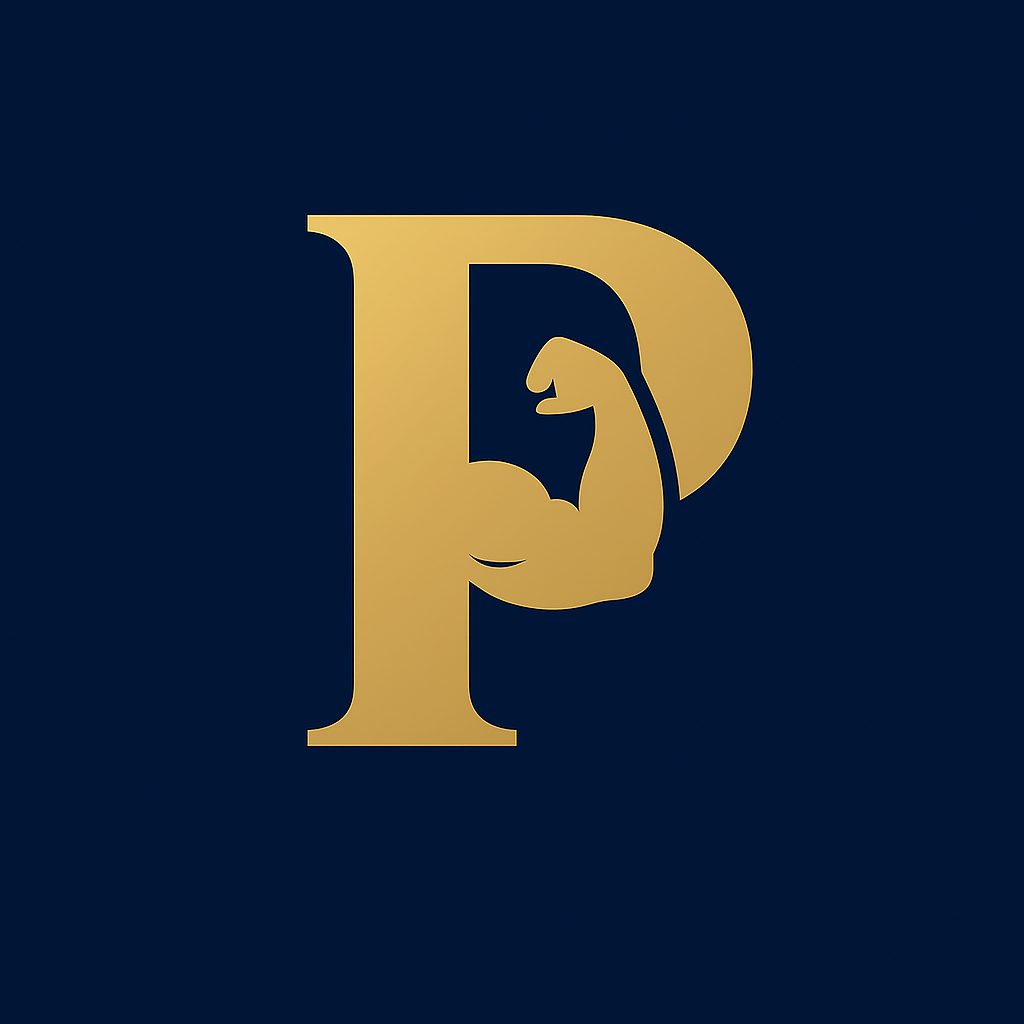
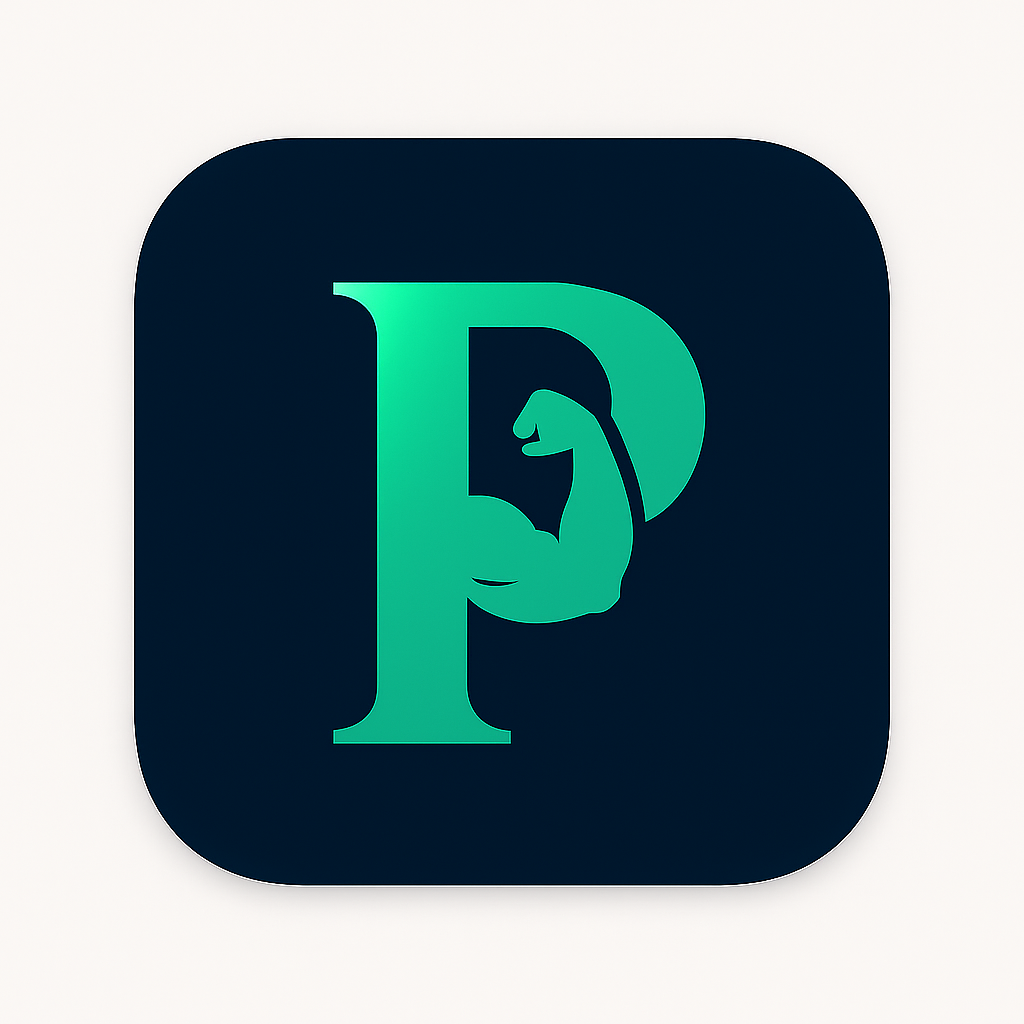
Update color theme and branding
- Updated color scheme to dark navy with green accents
- Replaced gold colors with primary green (#00C97C)
- Updated background colors to match new theme
- Removed dark backgrounds from language selection buttons
- Updated app icon and logo references
- Fixed Badge component to use transparent background
- Updated all components to use new color palette
- Maintained all existing functionality and workflow

diff --git a/Frontend/PrimeForm/src/components/LanguageSelectionModal.tsx b/Frontend/PrimeForm/src/components/LanguageSelectionModal.tsx
@@ -140,7 +140,7 @@ export default function LanguageSelectionModal({
             <View style={styles.logoContainer}>
               <View style={styles.logoBackground}>
                 <Image 
-                  source={require('../../assets/images/PrimeLogo.png')} 
+                  source={require('../../assets/images/Primelogo1.png')} 
                   style={styles.logoImage}
                   resizeMode="contain"
                 />
@@ -333,7 +333,7 @@ const styles = StyleSheet.create({
   bottomAccent: {
     width: 60,
     height: 3,
-    backgroundColor: colors.gold,
+    backgroundColor: colors.primary,
     borderRadius: 2,
     opacity: 0.6,
   },

diff --git a/Frontend/PrimeForm/src/components/OnboardingModal.tsx b/Frontend/PrimeForm/src/components/OnboardingModal.tsx
@@ -113,7 +113,7 @@ export default function OnboardingModal({
             <Animated.View style={[styles.logoContainer, animatedLogoStyle]}>
               <View style={styles.logoBackground}>
                 <Image 
-                  source={require('../../assets/images/PrimeLogo.png')} 
+                  source={require('../../assets/images/Primelogo1.png')} 
                   style={styles.logoImage}
                   resizeMode="contain"
                 />
